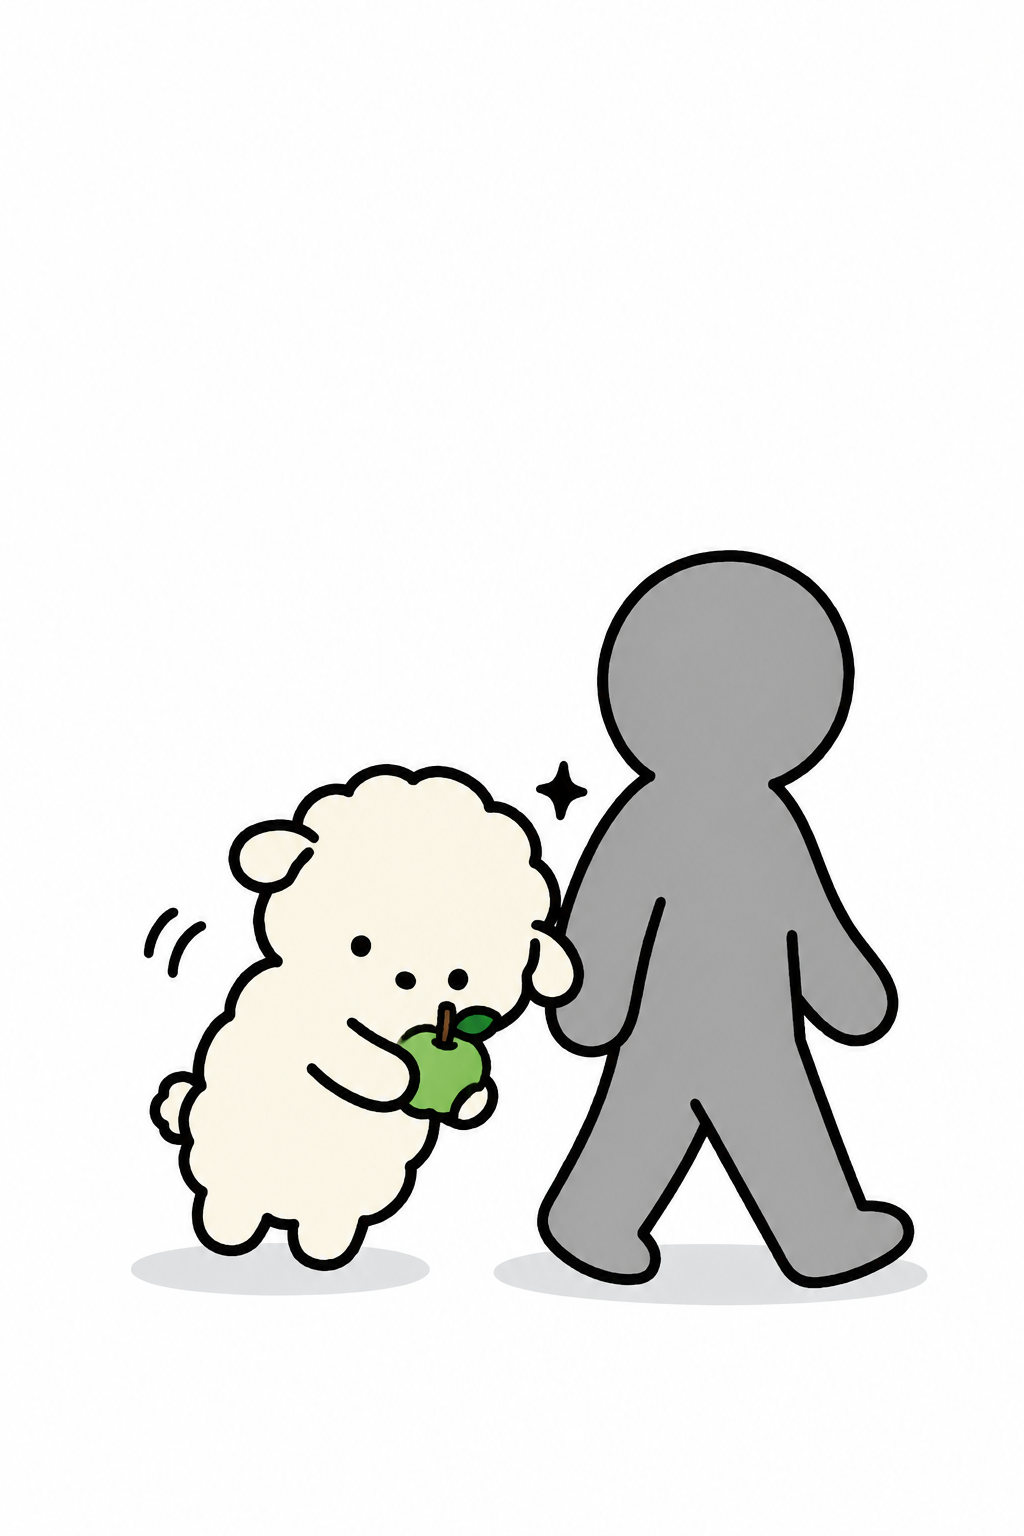
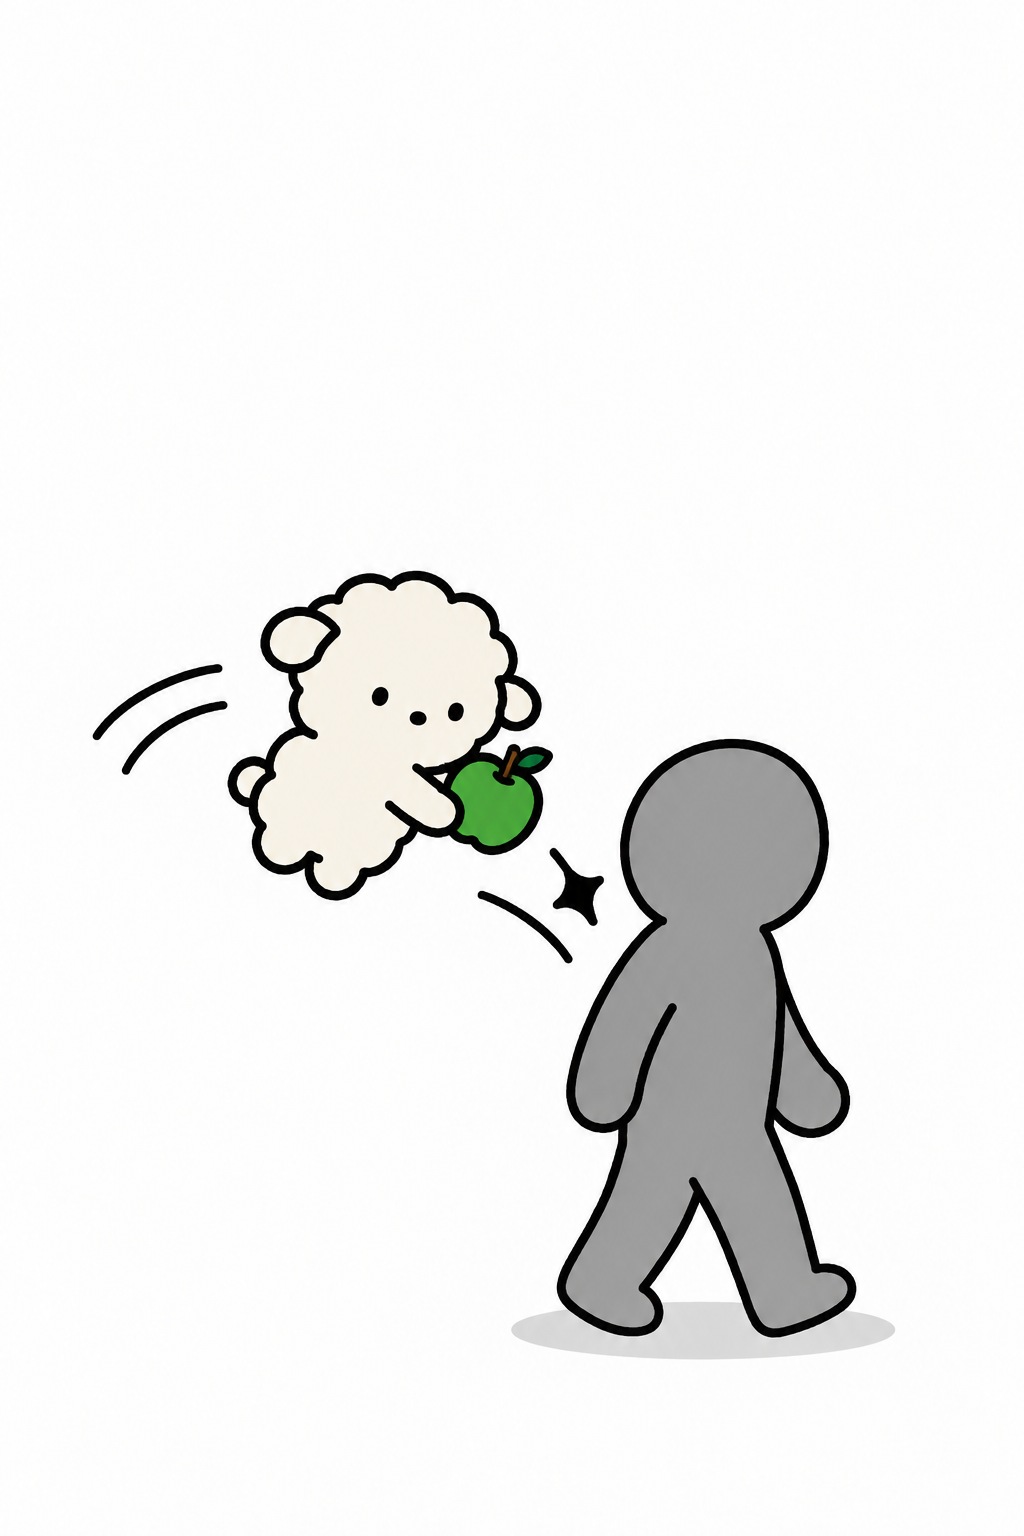
EP.05 컷1 재생성(날아가며 사과), 캐릭터 색 검사 스크립트 check_colors.py + 스킬 규칙

Changed region(s): [[0.125, 0.3438, 0.9062, 0.9062], [0.0938, 0.4062, 0.2188, 0.5], [0.125, 0.5938, 0.2188, 0.6562]]

diff --git a/episodes/ep05/compose.html b/episodes/ep05/compose.html
@@ -36,7 +36,7 @@
   <img class="art" src="img/cut1.png" alt="">
   <div class="narr">나는 누가 잘못을 했든
 그 사람보다 먼저 사과할 수 있다.</div>
-  <div class="mind" style="left:20px;top:560px;width:300px;text-align:center">죄송합니다!</div>
+  <div class="mind" style="left:180px;top:380px;width:400px;text-align:center">죄송합니다!</div>
 </section>
 
 <section id="s2">

diff --git a/episodes/ep05/build_prompts.py b/episodes/ep05/build_prompts.py
@@ -51,10 +51,11 @@ cuts['cover'] = head(DUBU, APPLE) + (
     "Character and rock in the lower 60% of the image; the upper 40% must be completely empty white for a title.") + END
 
 cuts['cut1'] = head(DUBU, APPLE) + (
-    "Scene: " + SILHOUETTE + " is walking from right to left in side view, looking straight ahead, and has just shoulder-bumped into Dubu who was standing still; "
-    "it keeps walking without reacting. Dubu, on the LEFT, is knocked sideways: her body is tilted and wobbling with two short motion lines, one small black four-point impact star "
-    "is drawn between the silhouette's shoulder and Dubu's shoulder — yet SHE is the one apologizing: she bends forward toward the silhouette in a deep bow, holding THE APPLE out "
-    "with both hands toward it, eyes as two small dots. The two figures overlap slightly at the shoulders so the bump is obvious. Bright, calm colors. " + LAYOUT) + END
+    "Scene: " + SILHOUETTE + " is walking from right to left in side view, looking straight ahead, and has just shoulder-bumped Dubu so hard that she is LAUNCHED INTO THE AIR. "
+    "The silhouette keeps walking without reacting, and stands on the ground at the right. Dubu is on the LEFT, high up in mid-air, feet well off the ground, her whole body flying sideways away from the silhouette "
+    "with a curved arc of motion lines behind her and one small black four-point impact star near the silhouette's shoulder — yet even while flying she is the one apologizing: "
+    "her head is bowed toward the silhouette and she holds THE APPLE out with both hands toward it, eyes as two small dots. "
+    "Dubu is airborne, so draw NO contact shadow under her; only the silhouette gets a shadow ellipse. Bright, calm colors. " + LAYOUT) + END
 
 cuts['cut2'] = head(DUBU, TANGJA, APPLE) + (
     "Scene: a street (plain white background, only a thin gray ground line). Tangja (left) has just run into Dubu: she is caught mid-skid with her body leaning forward, a few short motion lines behind her, "

diff --git a/scripts/check_colors.py b/scripts/check_colors.py
@@ -1,0 +1,41 @@
+"""생성된 컷에서 캐릭터 바디 색이 시트 hex와 얼마나 다른지 잰다.
+
+  python scripts/check_colors.py episodes/ep05/img/cut4.png dubu bamtol
+이름: dubu misook deoksu kong tangja sora bamtol clerk (assets/characters.md 1절의 hex)
+출력: 캐릭터별 실제 우세 색과 시트 hex의 채널 최대 차. ±12 안에 큰 영역이 없으면 색이 틀어진 것.
+"""
+import sys
+import numpy as np
+from PIL import Image
+
+SHEET = {
+    "dubu": "#F6F2E6", "misook": "#F6CA9E", "deoksu": "#EACEAA", "kong": "#DED6DA",
+    "tangja": "#F5E08C", "sora": "#C2C6CA", "bamtol": "#C9A582", "clerk": "#BCD0DA",
+}
+TOL = 12  # 이 안의 픽셀만 그 캐릭터로 봄 (더 넓히면 이웃 캐릭터·회색을 집는다)
+
+
+def hex2rgb(h):
+    return np.array([int(h[i:i + 2], 16) for i in (1, 3, 5)])
+
+
+def dominant(px, target):
+    near = px[(np.abs(px - target).max(1) <= TOL) & ~(px.min(1) >= 250)]  # 흰 배경 제외
+    if len(near) < 500:
+        return None, 0
+    v, c = np.unique(near, axis=0, return_counts=True)
+    return v[c.argmax()], int(c.max())
+
+
+if __name__ == "__main__":
+    path, names = sys.argv[1], sys.argv[2:]
+    px = np.array(Image.open(path).convert("RGB")).reshape(-1, 3).astype(int)
+    for n in names:
+        t = hex2rgb(SHEET[n])
+        d, cnt = dominant(px, t)
+        if d is None:
+            print(f"{n}: 시트 hex ±12 안의 영역 없음 -> 색이 틀어졌거나 미등장. 눈으로 확인 후 재생성")
+            continue
+        diff = int(np.abs(d - t).max())
+        flag = ""
+        print(f"{n}: 실제 #{d[0]:02X}{d[1]:02X}{d[2]:02X}  시트 {SHEET[n]}  차 {diff}  ({cnt}px){flag}")

diff --git a/.claude/skills/make-episode/SKILL.md b/.claude/skills/make-episode/SKILL.md
@@ -46,6 +46,7 @@ description: 「작은 힘에도 작은 책임은 따른다」 에피소드 1편
 - 생성은 **캐릭터 + 소품만**. 프롬프트 끝에 항상 `No text, no letters, no speech bubbles, no captions. Plain white background. One flat light-gray #E6E6E6 ellipse on the ground under each standing character and under any large object resting on the ground, as a contact shadow; no other shadows, no shading on the bodies.` (접지 그림자는 EP.03부터. 공중에 뜬 캐릭터는 그 컷 프롬프트에서 제외 명시.) 말풍선 꼬리가 캐릭터와 안 맞는 문제가 있어 **말풍선은 절대 그리지 않는다** — 속마음도 텍스트 합성으로.
 - 참조: 등장 캐릭터 시트 `assets/samples/<이름>-sheet-high.png`(두부 dubu, 미숙 misook, 덕수 deoksu, 콩 kong, 탱자 tangja, 소라 sora, 밤톨 bamtol) → **2명 이상 동시 출연이면** `python scripts/lineup.py dubu misook --out ref/lineup.png`로 그 컷의 캐릭터만 담은 크기 라인업을 만들어 다음 참조로 . **깜자 스타일 이미지는 캐릭터 시트 제작용이지 컷 생성엔 넣지 않는다** (시트가 이미 그 문법을 담고 있음). 각 시트 프롬프트(`<이름>-sheet-prompt.txt`)의 design 블록을 프롬프트 헤더로 복사하고, 라인업이 있으면 "the lineup image shows their relative sizes"를 덧붙인다.
 - 캐스트·크기·색은 `assets/characters.md` 1절.
+- **캐릭터 색은 hex로 고정한다.** 프롬프트의 design 블록에 시트 hex를 반드시 적고(EP.04 `build_prompts.py`의 블록이 기준), 생성 후 `python scripts/check_colors.py img/cutN.png dubu bamtol`로 바디 색을 잰다 — 시트 hex ±12 안의 영역이 없으면 그 컷은 재생성. 4–6컷의 `.dim`(CSS saturate .7)은 캐릭터 색까지 바꾸므로 색 일관성이 우선인 컷은 `.dim`을 빼고 프롬프트의 "muted"만 쓴다.
 - **군중·행인(이름 없는 다수)은 시트 없이 프롬프트 문구를 고정**해서 그린다 (참조 이미지가 늘수록 결과가 흐려짐): `a crowd of many small featureless people-shaped silhouettes in flat medium gray, no faces, no details` — 사람 형태여도 된다. 대사·속마음이 있는 엑스트라만 종을 정해 시트를 만든다.
 - 초능력 발동(표지·2–3·7): 에피소드 소품 + 반짝이. 소품은 `assets/props.md`에서 기존 편과 종류·색이 겹치지 않게 정하고 콘티 전에 표에 추가한다. 색은 크림색 몸과 대비되게 **화려해도 좋다**(EP.01 연두+보라 선글라스). 착용 위치를 프롬프트에 명시(선글라스는 눈을 덮게). **소품은 매 컷 넣지 않고 장면에 필요한 컷에만** 쓰며, 콘티 상단에 쓰는 컷 번호를 적는다. 7컷 망토 `#C77B3F`는 공통. 단점 컷(4–6): 감정 기호. **감정 기호(먹구름·땀방울·낙서 소용돌이·세로 그늘선·눈물·하트·반짝이 등)는 한 에피소드 안에서 컷마다 다른 것을 쓰고 중복시키지 않는다** — 콘티의 속마음 열에 `감정: ○○`로 컷별 배정을 적고 프롬프트에 그 하나만 넣는다. 먹구름은 편당 1컷까지.
 - **밈·명장면 활용**: 콘티에서 내레이션을 다 쓴 뒤, 장면 구상 전에 `assets/memes.md`를 한 번 훑어 상황에 맞는 것이 있으면 캐릭터 연기·구도로 옮긴다(그림 쪽만, 내레이션엔 안 씀. 억지로 끼우지 않음. **밈을 모르는 독자에게도 장면이 성립해야 한다** — 밈은 덤이지 장면의 전제가 아니다). 프롬프트 요점에 `밈: ○○`로 적고, 쓴 항목은 `memes.md`에서 지워 `memes-used.md`로 옮긴다(한 번 쓴 밈은 다른 컷·에피소드에서 재사용 금지). 웹 검색은 하지 않는다 — 리스트는 매월 갱신.

diff --git a/episodes/ep05/conti.md b/episodes/ep05/conti.md
@@ -5,7 +5,7 @@
 | 컷 | 장면 | 내레이션 | 속마음·대사(합성) |
 |---|---|---|---|
 | 표지 | 작은 바위 절벽 끝에 선 두부가 한 손은 허리, 다른 팔을 비스듬히 높이 들어 초록 사과를 트로피처럼 치켜듦. 뒤로 빛줄기 방사, 주위 반짝이 | 제목 (3줄: 잘못한 사람보다 / 먼저 사과할 수 있는 / 초능력) | 감정: 반짝이 · 밈: 심바 들어올리기 |
-| 1 | 회색 실루엣 행인이 걸어가다 두부 어깨를 치고 지나감(충돌 별, 두부는 휘청 흔들림선). 부딪힌 쪽은 두부인데, 두부가 사과를 두 손으로 내밀며 허리를 굽힘 | 나는 누가 잘못을 했든 / 그 사람보다 먼저 사과할 수 있다. | 두부: 죄송합니다! · 감정: 어깨 충돌 별 |
+| 1 | 회색 실루엣 행인이 걸어가다 두부를 치고 지나가고, 두부는 공중으로 날아가는 중(궤적선, 충돌 별). 날아가면서도 실루엣 쪽으로 고개 숙이고 사과를 두 손으로 내밂. 두부는 공중이라 접지 그림자 없음 | 나는 누가 잘못을 했든 / 그 사람보다 먼저 사과할 수 있다. | 두부: 죄송합니다! · 감정: 어깨 충돌 별 |
 | 2 | 길거리. 뛰어오던 탱자가 두부와 부딪혀 두부의 아이스크림이 바닥에 떨어짐. 탱자는 두 손을 입에 대고 굳었는데 두부는 이미 사과를 내밀고 웃는 호 눈 | 친구가 실수를 했을 때 / 미안해할 틈도 주지 않을 수 있고 | 두부: 내가 갑자기 멈춰 섰지, 미안! · 탱자: ...내가 미안한 건데 · 감정: 탱자 머리 위 하트 |
 | 3 | **과거 연출.** 편의점. 어린이 콩(두부의 70% 크기, 빨간 나비넥타이)이 넘어뜨린 진열대에서 과자 봉지가 산처럼 쏟아져 있고, 콩은 뒷짐 지고 딴 데를 봄. 여고생 교복을 입은 두부가 카운터의 점원(물범)에게 사과를 내밀며 90도 인사 | 어릴 때부터 동생이 사고를 치면 / 동생 몫까지 대신 사과해 왔다. | 두부: 저희가 다 치울게요! · 콩: 누나 최고 · 라벨: 상단 -10년 전- · 감정: 콩 머리 위 음표 |
 | 4 | **공유 컷.** 카페 앞 벤치. 두부 옆에 얼음이 다 녹은 음료 컵. 밤톨이 뛰지도 않고 천천히 걸어와 서 있음. 두부는 일어나 웃는 호 눈으로 사과를 내밀지만, 등 뒤로 감춘 다른 손은 꽉 쥔 주먹에 떨림선. 저채도 | 남친이 약속에 40분 늦은 날. / 이 능력은 오늘도 정확히 발동한다. | 두부: 내가 괜히 일찍 나와서 불편하게 했네 ㅎㅎ · 밤톨: 차 막혔어. · 감정: 등 뒤 주먹 떨림선 · 속마음 장치: 등 뒤 주먹 |
